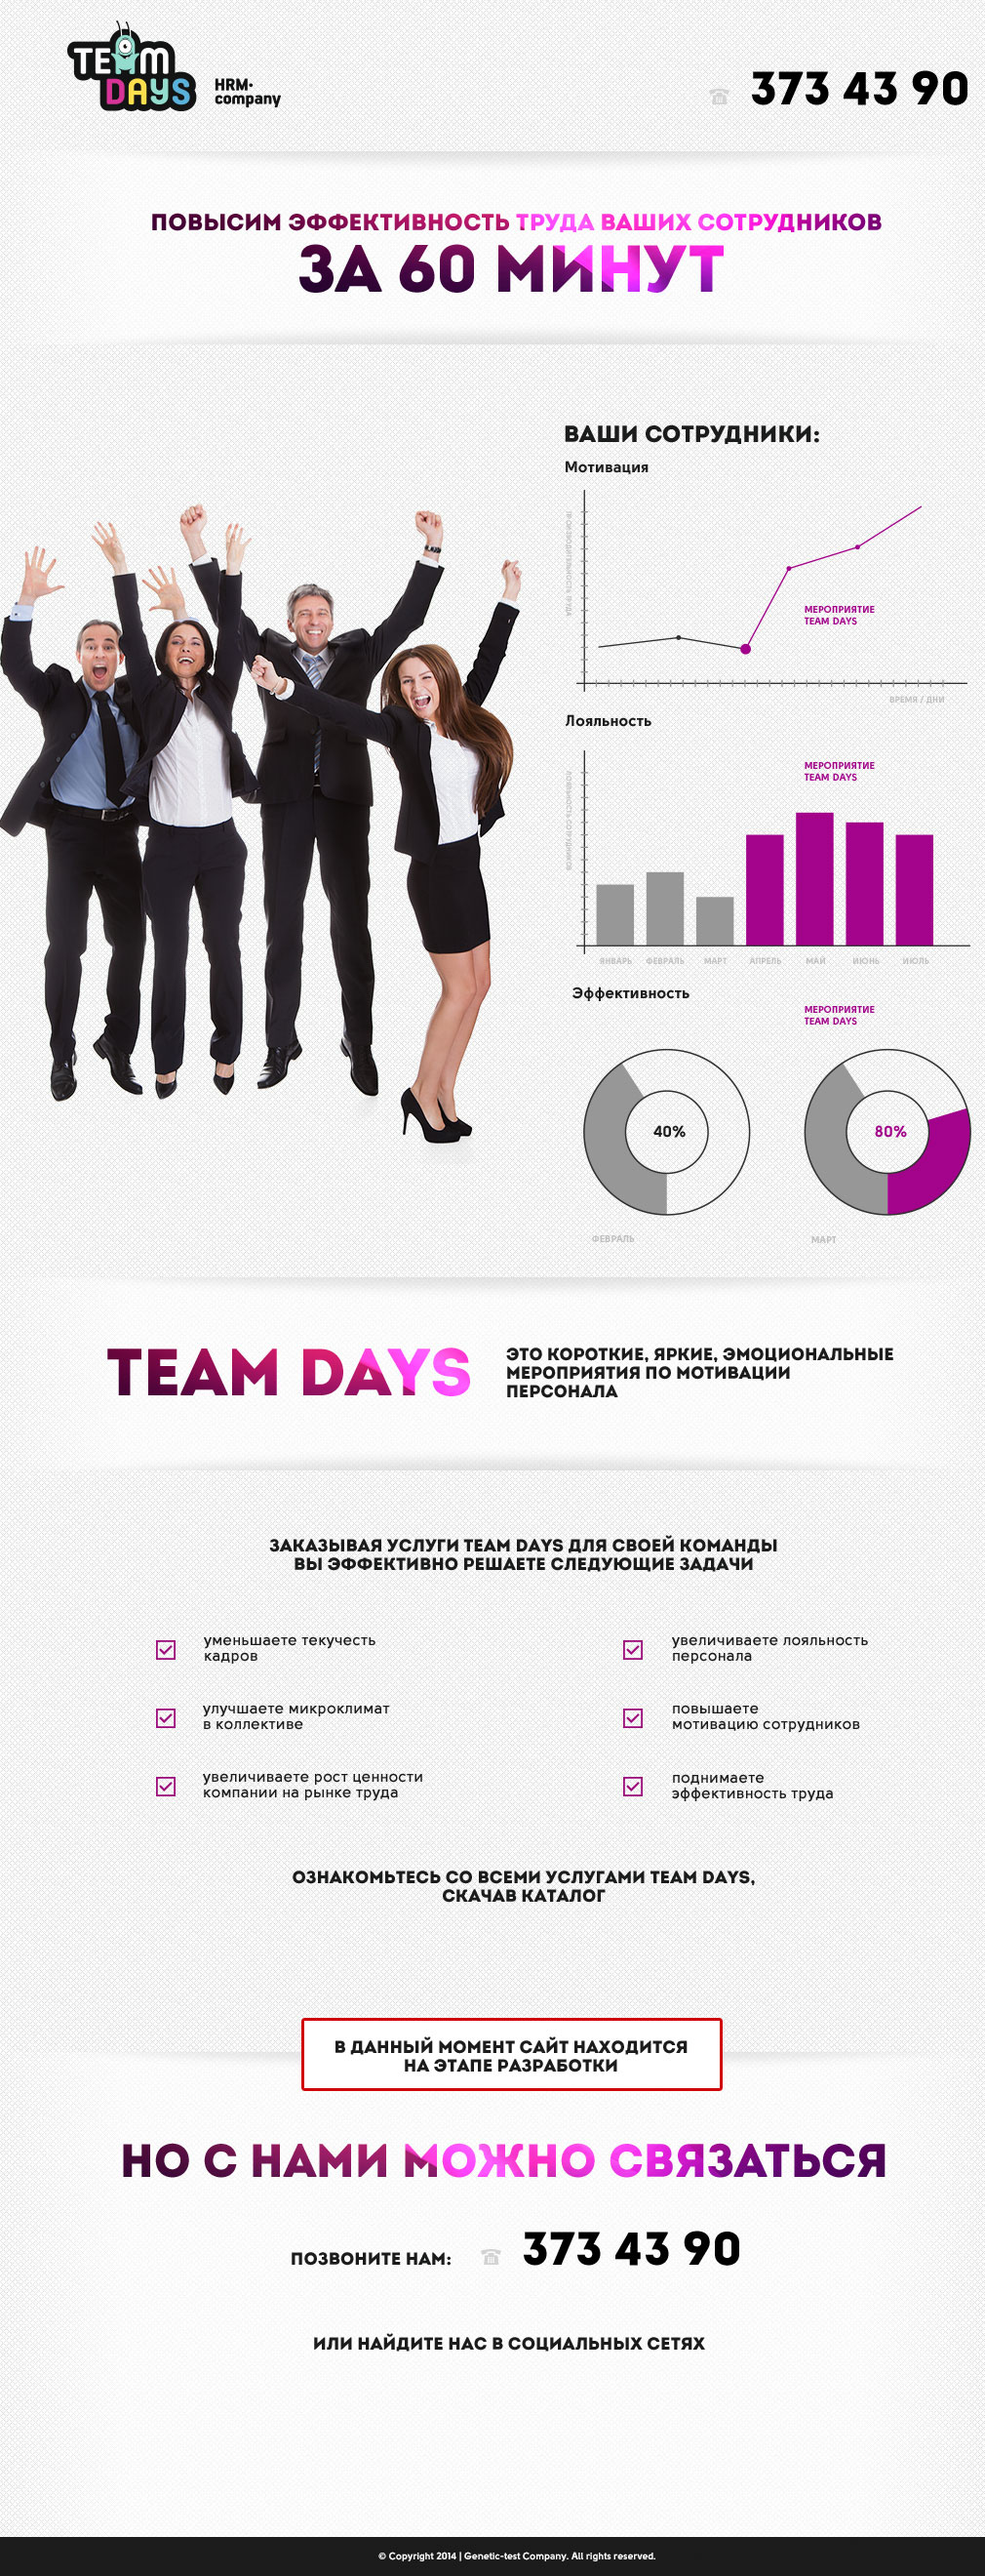
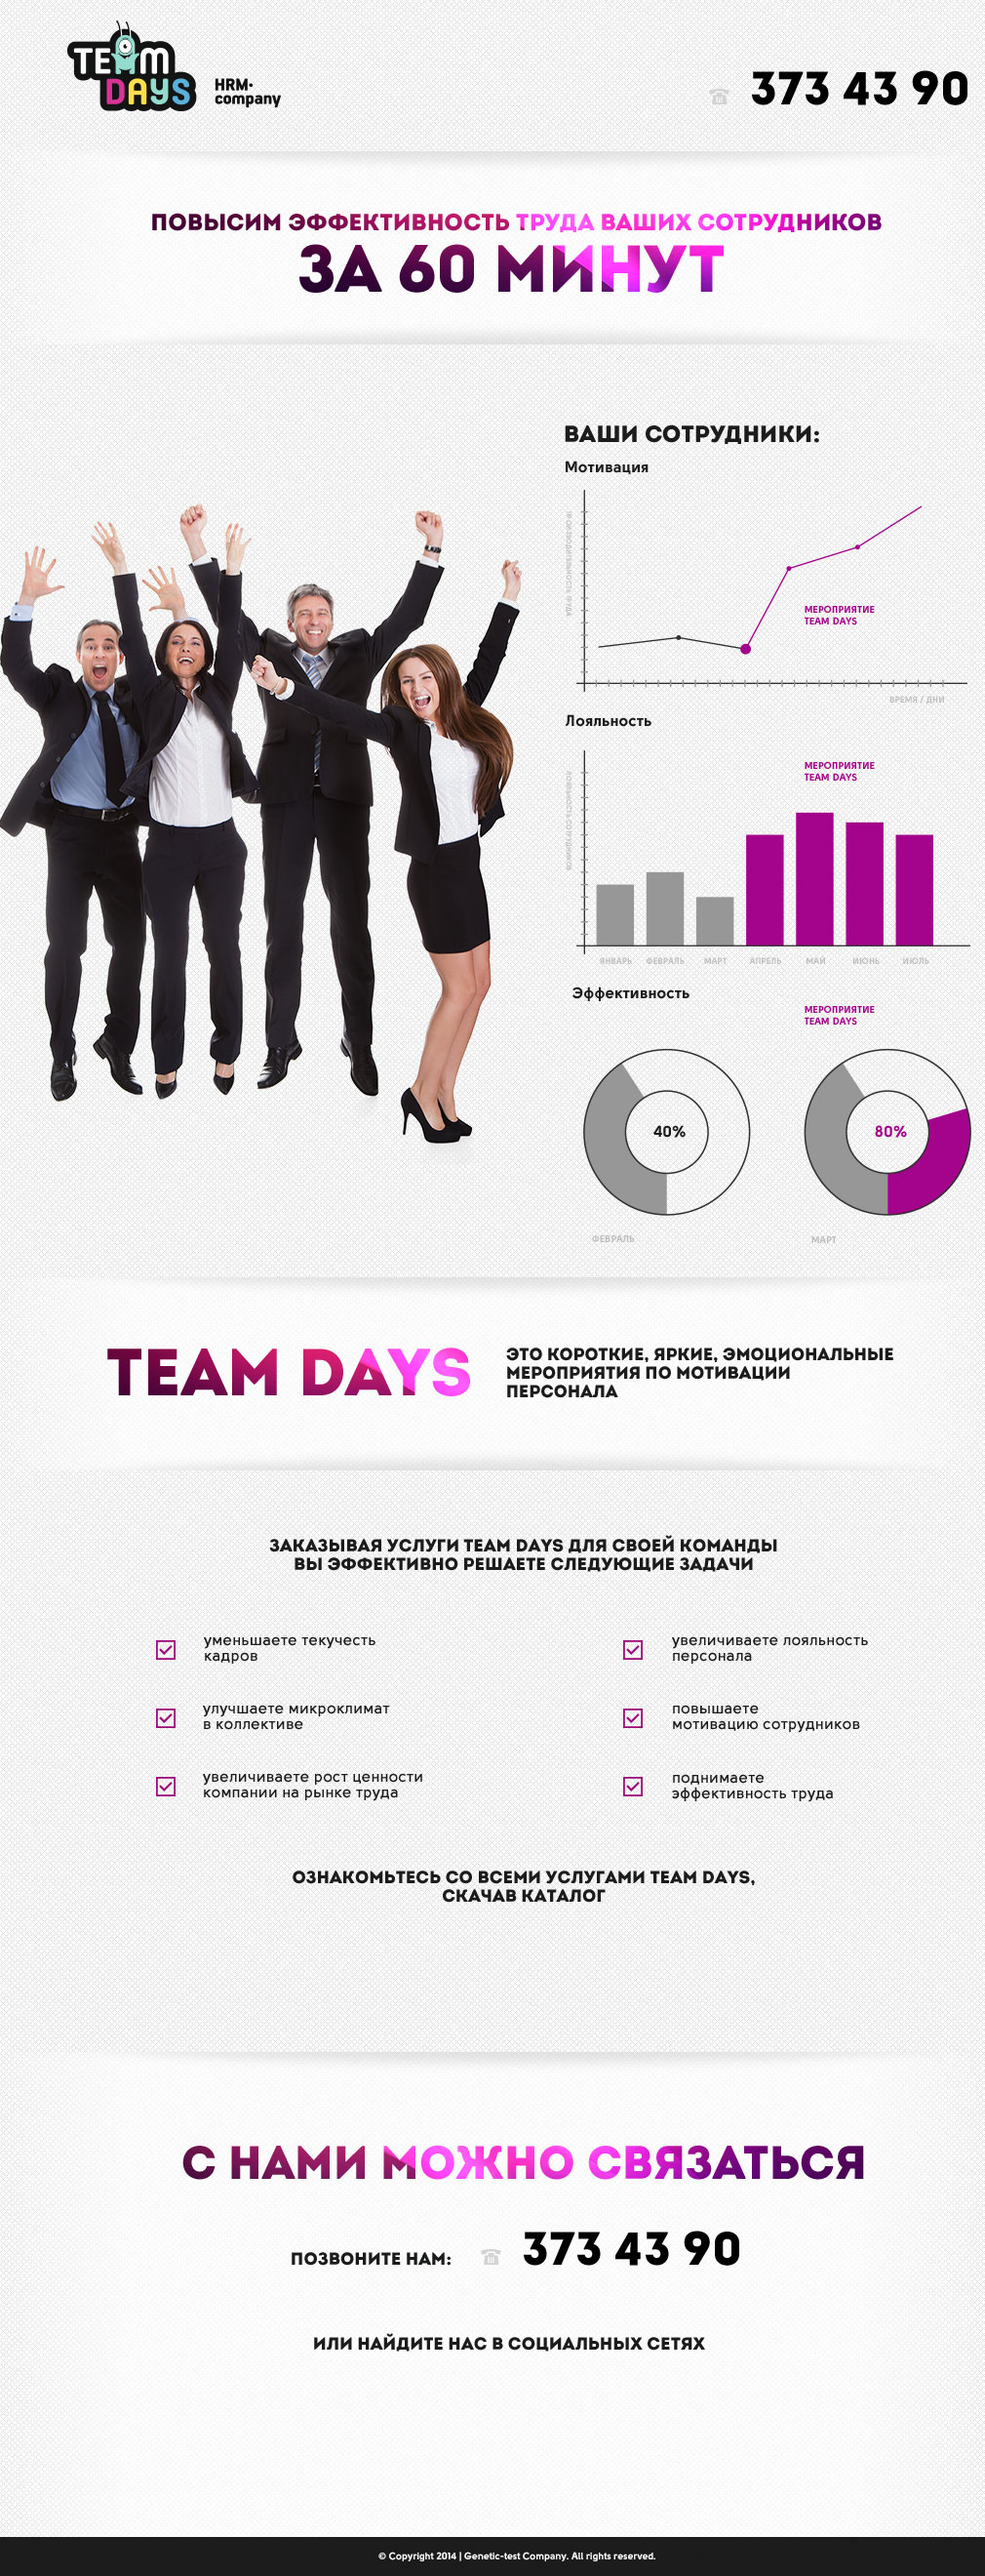
text fix

Changed region(s): [[0.1228, 0.7765, 0.7673, 0.8697], [0.7673, 0.8076, 0.8901, 0.8697]]

diff --git a/app/assets/stylesheets/temporary.css.sass b/app/assets/stylesheets/temporary.css.sass
@@ -13,32 +13,40 @@ body
       position: relative
       height: 45px
       width: 235px
-      top: 1986px
+      top: 1950px
       left: 419px
       background-image: image_url('download.png')
+    .catalog_button
+      display: inline-block
+      position: relative
+      height: 80px
+      width: 437px
+      top: 2065px
+      left: 71px
+      background-image: image_url('catalog.png')
 
     .social
       .instagram
         display: inline
         position: relative
-        top: 2358px
+        top: 2322px
         left: 45px
       .vk
         display: inline
         position: relative
-        top: 2393px
+        top: 2358px
         left: 125px
         img
           height: 119px
       .youtube
         display: inline
         position: relative
-        top: 2357px
+        top: 2322px
         left: 170px
       .facebook
         display: inline
         position: relative
-        top: 2376px
+        top: 2341px
         left: 257px
   .footer
     min-width: 1010px
